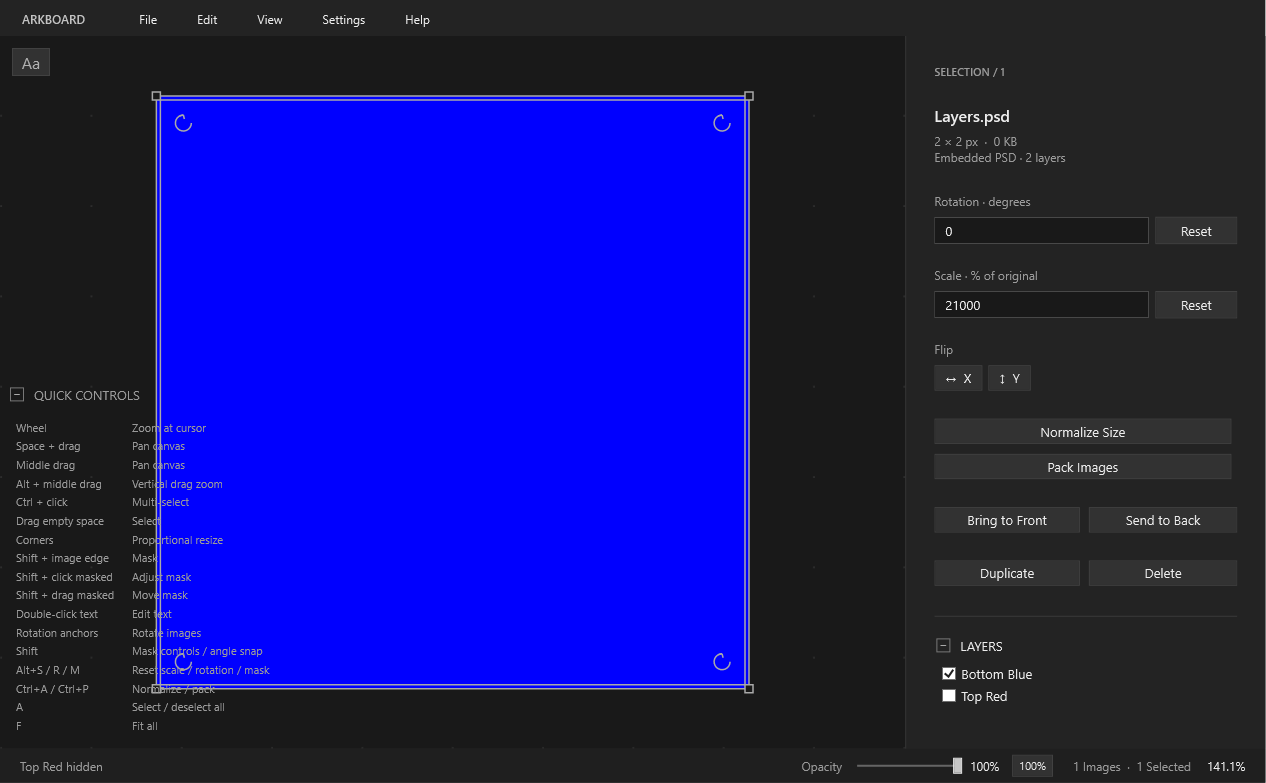
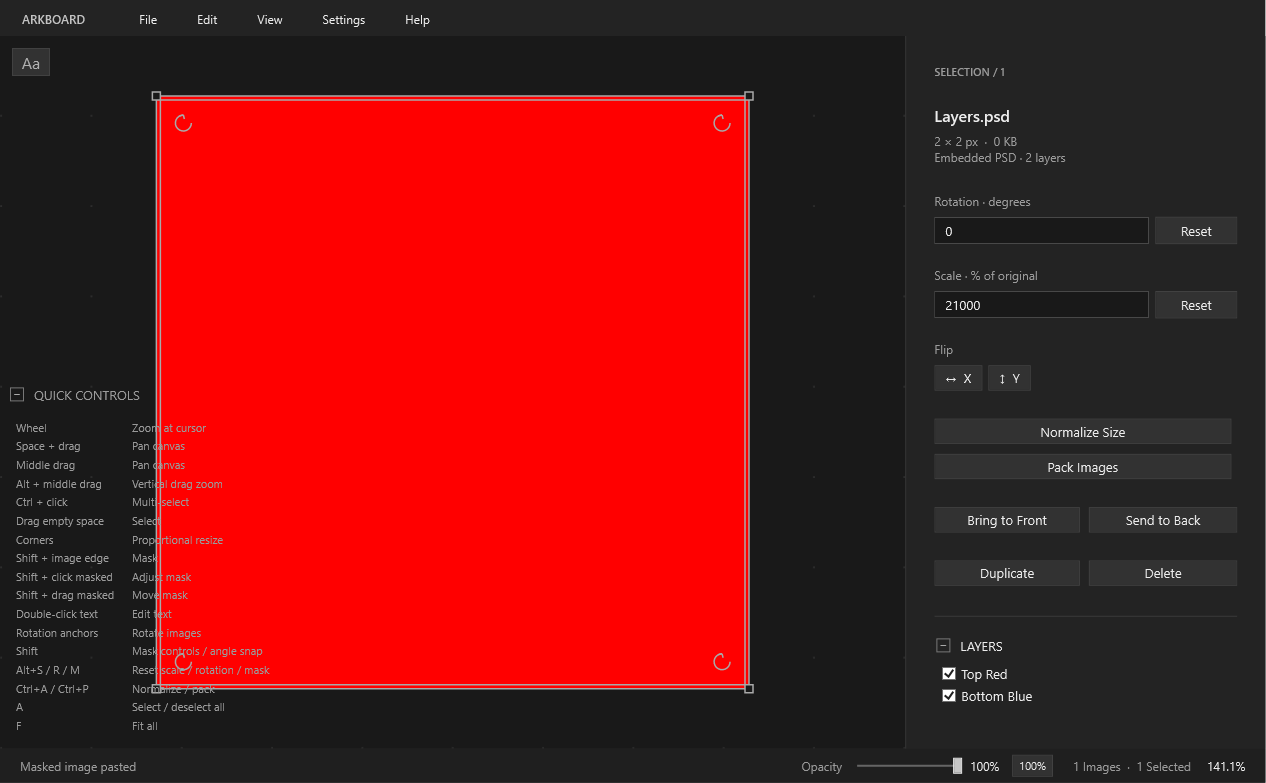
Fix PSD layer compositing order

diff --git a/src/SelfTests.cs b/src/SelfTests.cs
@@ -78,8 +78,9 @@ namespace ArkBoard
                     layerWriter.Write((byte)label.Length); layerWriter.Write(label);
                     for (int p = label.Length + 1; p < paddedName; p++) layerWriter.Write((byte)0);
                 };
-                record("Top Red", top); record("Bottom Blue", bottom);
-                foreach (byte[] channel in top.Concat(bottom)) layerWriter.Write(channel);
+                // PSD layer records are ordered bottom-to-top.
+                record("Bottom Blue", bottom); record("Top Red", top);
+                foreach (byte[] channel in bottom.Concat(top)) layerWriter.Write(channel);
                 byte[] layerInfo = layerInfoStream.ToArray();
                 using (var maskStream = new MemoryStream()) using (var maskWriter = new BinaryWriter(maskStream))
                 {
@@ -134,15 +135,15 @@ namespace ArkBoard
             Check(blue.Bitmap.PixelWidth == 600 && blue.Bitmap.PixelHeight == 400, "PNG decode preserves source dimensions");
             Check(AssetData.Create(blue.Bytes).Key == blue.Key, "Identical images have identical content hashes");
             AssetData psd = AssetData.Create(SamplePsd());
-            Check(psd.IsPsd && psd.Psd.Layers.Count == 2 && psd.Psd.Layers[0].Name == "Top Red" && psd.Psd.Layers[1].Name == "Bottom Blue",
+            Check(psd.IsPsd && psd.Psd.Layers.Count == 2 && psd.Psd.Layers[0].Name == "Bottom Blue" && psd.Psd.Layers[1].Name == "Top Red",
                 "Basic PSD import reads named raster layers with raw and PackBits channel data");
             var psdDoc = new BoardDocument(); ImageItem psdItem = psdDoc.Add(psd, "Layers.psd", new Point(40, 40));
             Check(psdItem.LayerVisibility.SequenceEqual(new[] { true, true }) && Pixel(psd.BitmapFor(psdItem), 0, 0).R > 240,
                 "PSD import initializes Photoshop layer visibility and composites the top layer");
-            psdDoc.Change(() => psdItem.LayerVisibility[0] = false);
+            psdDoc.Change(() => psdItem.LayerVisibility[1] = false);
             Check(Pixel(psd.BitmapFor(psdItem), 0, 0).B > 240, "Turning off a PSD layer reveals the layer below it");
             psdDoc.Undo(); psdItem = psdDoc.Items.Single();
-            Check(psdItem.LayerVisibility[0] && Pixel(psd.BitmapFor(psdItem), 0, 0).R > 240,
+            Check(psdItem.LayerVisibility[1] && Pixel(psd.BitmapFor(psdItem), 0, 0).R > 240,
                 "PSD layer visibility changes can be undone without sharing mutable state");
             psdDoc.Redo(); psdItem = psdDoc.Items.Single();
             string psdProject = Path.Combine(folder, "psd-layers.arkboard"); psdDoc.Save(psdProject);
@@ -150,12 +151,12 @@ namespace ArkBoard
                 Check(((Manifest)new DataContractJsonSerializer(typeof(Manifest)).ReadObject(entry)).Version == 4,
                     "Projects containing PSD layer state use manifest version 4");
             var psdRead = new BoardDocument(); psdRead.Load(psdProject);
-            Check(psdRead.Items.Single().LayerVisibility.SequenceEqual(new[] { false, true }) && psdRead.Assets.Single().Value.IsPsd &&
+            Check(psdRead.Items.Single().LayerVisibility.SequenceEqual(new[] { true, false }) && psdRead.Assets.Single().Value.IsPsd &&
                 Pixel(psdRead.Assets.Single().Value.BitmapFor(psdRead.Items.Single()), 0, 0).B > 240,
                 "ArkBoard projects embed PSD source data and preserve per-item layer visibility");
             ImageItem psdClipboardItem; AssetData psdClipboardAsset;
             DataObject psdClipboard = ArkBoardClipboard.Create(psdRead.Items.Single(), psdRead.Assets.Single().Value);
-            Check(ArkBoardClipboard.TryRead(psdClipboard, out psdClipboardItem, out psdClipboardAsset) && !psdClipboardItem.LayerVisibility[0] &&
+            Check(ArkBoardClipboard.TryRead(psdClipboard, out psdClipboardItem, out psdClipboardAsset) && !psdClipboardItem.LayerVisibility[1] &&
                 Pixel(psdClipboard.GetImage(), 0, 0).B > 240,
                 "ArkBoard and standard bitmap clipboard data preserve the current PSD layer composite");
             var doc = new BoardDocument(); doc.Checkpoint();
@@ -298,6 +299,8 @@ namespace ArkBoard
             Check((string)window.quickControlsExpander.Header == "COMANDI RAPIDI", "Italian UI can be selected at runtime");
             window.SetLanguage(UiLanguage.Japanese);
             Check((string)window.layersExpander.Header == "レイヤー", "Japanese UI can be selected at runtime");
+            Check(window.languageItems.Select(item => (string)item.Header).SequenceEqual(new[] { "English", "Italiano", "日本語" }),
+                "Language choices keep their native labels independently of the active UI language");
             Capture(window, Path.Combine(folder, "ui-japanese.png"));
             window.SetLanguage(UiLanguage.English);
             window.quickControlsExpander.IsExpanded = false;
@@ -489,11 +492,11 @@ namespace ArkBoard
                 "Selecting one PSD exposes its layer visibility list in the inspector");
             Check((string)((CheckBox)window.layersList.Children[0]).Content == psd.Psd.Layers[psd.Psd.Layers.Count - 1].Name,
                 "PSD layers are listed in the same visual order as Photoshop");
-            window.SetPsdLayerVisibility(uiPsd.Id, 0, false);
-            Check(!uiPsd.LayerVisibility[0] && Pixel(psd.BitmapFor(uiPsd), 0, 0).B > 240,
-                "The inspector layer toggle updates the selected PSD instance");
             uiPsd.Width = 420; uiPsd.Height = 420; window.Document.Notify(); window.Board.Fit(false);
             Capture(window, Path.Combine(folder, "ui-psd-layers.png"));
+            window.SetPsdLayerVisibility(uiPsd.Id, 1, false);
+            Check(!uiPsd.LayerVisibility[1] && Pixel(psd.BitmapFor(uiPsd), 0, 0).B > 240,
+                "The inspector layer toggle updates the selected PSD instance");
             uiPsd.Width /= 2; uiPsd.Height /= 2; uiPsd.Rotation = 61; uiPsd.MaskLeft = .2;
             window.ResetSize(); Check(Near(uiPsd.Width, 2) && Near(uiPsd.Height, 2), "Reset scale restores 100 percent dimensions for Alt+S");
             window.ResetRotation(); Check(Near(uiPsd.Rotation, 0), "Reset rotation restores zero degrees for Alt+R");

diff --git a/src/MainWindow.cs b/src/MainWindow.cs
@@ -40,7 +40,7 @@ namespace ArkBoard
         MenuItem flipXContextItem, flipYContextItem, rotateContextItem, resetRotationContextItem;
         MenuItem topmostItem, gridItem;
         MenuItem autoSortingItem, invertDragZoomItem, languageMenu;
-        readonly List<MenuItem> languageItems = new List<MenuItem>();
+        internal readonly List<MenuItem> languageItems = new List<MenuItem>();
         bool busy;
         bool testMode;
         readonly Brush panel = Brush("#232323");
@@ -204,7 +204,7 @@ namespace ArkBoard
         { return new MenuItem { Header = Localization.T(title), Tag = title }; }
         void AddLanguage(MenuItem parent, string title, UiLanguage language)
         {
-            MenuItem item = MenuHeader(title); item.IsCheckable = true; item.IsChecked = Localization.Current == language;
+            MenuItem item = new MenuItem { Header = title, IsCheckable = true, IsChecked = Localization.Current == language };
             item.Click += delegate { SetLanguage(language); };
             languageItems.Add(item); parent.Items.Add(item);
         }
@@ -286,8 +286,8 @@ namespace ArkBoard
             settings.Items.Add(invertDragZoomItem);
             languageMenu = MenuHeader("Language"); settings.Items.Add(languageMenu);
             AddLanguage(languageMenu, "English", UiLanguage.English);
-            AddLanguage(languageMenu, "Italian", UiLanguage.Italian);
-            AddLanguage(languageMenu, "Japanese", UiLanguage.Japanese);
+            AddLanguage(languageMenu, "Italiano", UiLanguage.Italian);
+            AddLanguage(languageMenu, "日本語", UiLanguage.Japanese);
             MenuItem help = MenuHeader("_Help"); menu.Items.Add(help);
             help.Items.Add(MenuAction("About ArkBoard", "", Help));
             Root.Children.Add(bar);
@@ -799,11 +799,11 @@ namespace ArkBoard
         {
             string message;
             if (Localization.Current == UiLanguage.Italian)
-                message = "ArkBoard 1.9.0\nCanvas portatile per immagini di riferimento.\n\nFILE COMPATIBILI\nProgetti: .arkboard, .refcanvas, .zip\nImmagini: PNG, JPEG, BMP, TIFF, ICO, primo fotogramma GIF e WebP con codec Windows installato.\nPSD: livelli raster RGB a 8 bit con dati raw o RLE.\n\nPIATTAFORME\nWindows 10/11 x64 · .NET Framework 4.8\n\nLICENZA\nMIT Open Source\n\nCODICE SORGENTE E VERSIONI\nhttps://github.com/MaxPuliero/ArkBoard";
+                message = "ArkBoard 1.9.1\nCanvas portatile per immagini di riferimento.\n\nFILE COMPATIBILI\nProgetti: .arkboard, .refcanvas, .zip\nImmagini: PNG, JPEG, BMP, TIFF, ICO, primo fotogramma GIF e WebP con codec Windows installato.\nPSD: livelli raster RGB a 8 bit con dati raw o RLE.\n\nPIATTAFORME\nWindows 10/11 x64 · .NET Framework 4.8\n\nLICENZA\nMIT Open Source\n\nCODICE SORGENTE E VERSIONI\nhttps://github.com/MaxPuliero/ArkBoard";
             else if (Localization.Current == UiLanguage.Japanese)
-                message = "ArkBoard 1.9.0\nポータブルなリファレンス画像キャンバス。\n\n対応ファイル\nプロジェクト: .arkboard, .refcanvas, .zip\n画像: PNG, JPEG, BMP, TIFF, ICO, GIFの先頭フレーム、Windowsコーデック利用時のWebP。\nPSD: 8ビットRGBのraw/RLEラスターレイヤー。\n\n対応OS\nWindows 10/11 x64 · .NET Framework 4.8\n\nライセンス\nMITオープンソース\n\nソースとリリース\nhttps://github.com/MaxPuliero/ArkBoard";
+                message = "ArkBoard 1.9.1\nポータブルなリファレンス画像キャンバス。\n\n対応ファイル\nプロジェクト: .arkboard, .refcanvas, .zip\n画像: PNG, JPEG, BMP, TIFF, ICO, GIFの先頭フレーム、Windowsコーデック利用時のWebP。\nPSD: 8ビットRGBのraw/RLEラスターレイヤー。\n\n対応OS\nWindows 10/11 x64 · .NET Framework 4.8\n\nライセンス\nMITオープンソース\n\nソースとリリース\nhttps://github.com/MaxPuliero/ArkBoard";
             else
-                message = "ArkBoard 1.9.0\nPortable reference-image canvas.\n\nCOMPATIBLE FILES\nProjects: .arkboard, .refcanvas, .zip\nImages: PNG, JPEG, BMP, TIFF, ICO, first GIF frame, and WebP when a Windows codec is installed.\nPSD: 8-bit RGB raw/RLE raster layers.\n\nPLATFORMS\nWindows 10/11 x64 · .NET Framework 4.8\n\nLICENSE\nMIT Open Source\n\nSOURCE AND RELEASES\nhttps://github.com/MaxPuliero/ArkBoard";
+                message = "ArkBoard 1.9.1\nPortable reference-image canvas.\n\nCOMPATIBLE FILES\nProjects: .arkboard, .refcanvas, .zip\nImages: PNG, JPEG, BMP, TIFF, ICO, first GIF frame, and WebP when a Windows codec is installed.\nPSD: 8-bit RGB raw/RLE raster layers.\n\nPLATFORMS\nWindows 10/11 x64 · .NET Framework 4.8\n\nLICENSE\nMIT Open Source\n\nSOURCE AND RELEASES\nhttps://github.com/MaxPuliero/ArkBoard";
             DarkDialog.ShowAbout(this, message);
         }
     }

diff --git a/src/PsdSupport.cs b/src/PsdSupport.cs
@@ -95,7 +95,9 @@ namespace ArkBoard
             using (DrawingContext dc = visual.RenderOpen())
             {
                 dc.DrawRectangle(Brushes.Transparent, null, new Rect(0, 0, Width, Height));
-                for (int index = Layers.Count - 1; index >= 0; index--)
+                // PSD layer records are stored from the bottom of the stack to the top.
+                // Draw in that order so every later (higher) layer composites over it.
+                for (int index = 0; index < Layers.Count; index++)
                 {
                     PsdLayer layer = Layers[index];
                     bool visible = visibility == null || visibility.Count != Layers.Count ? layer.DefaultVisible : visibility[index];

diff --git a/src/AssemblyInfo.cs b/src/AssemblyInfo.cs
@@ -2,6 +2,6 @@ using System.Reflection;
 [assembly: AssemblyTitle("ArkBoard")]
 [assembly: AssemblyDescription("Portable reference canvas for Windows")]
 [assembly: AssemblyProduct("ArkBoard")]
-[assembly: AssemblyVersion("1.9.0.0")]
-[assembly: AssemblyFileVersion("1.9.0.0")]
+[assembly: AssemblyVersion("1.9.1.0")]
+[assembly: AssemblyFileVersion("1.9.1.0")]
 

diff --git a/README.md b/README.md
@@ -1,10 +1,15 @@
-# ArkBoard 1.9.0
+# ArkBoard 1.9.1
 
 A portable reference-image canvas for Windows. Projects contain all their image assets.
 
 ![ArkBoard canvas](docs/arkboard-canvas.png)
 
 ArkBoard is open-source software released under the [MIT License](LICENSE). Prebuilt portable versions are available from the repository's Releases page.
+
+## PSD compositing fix in 1.9.1
+
+- PSD raster layers now render in the same stacking order shown by Photoshop and the ArkBoard sidebar. A higher layer such as `retouch` correctly appears over a lower background layer while both remain enabled.
+- The language choices are always labeled **English / Italiano / 日本語**, independently of the active interface language.
 
 ## Interface and navigation in 1.9.0
 
@@ -159,12 +164,11 @@ Saving writes a temporary file beside the destination and replaces the project a
 Source is in `src`. `build.ps1` uses the installed .NET Framework compiler without downloading packages:
 
 ```powershell
-.\build.ps1 -OutputDirectory dist-arkboard-1.9.0
-Start-Process .\dist-arkboard-1.9.0\ArkBoard.exe -ArgumentList '--self-test','test-output-arkboard-1.9.0' -WindowStyle Hidden -Wait
+.\build.ps1 -OutputDirectory dist-arkboard-1.9.1
+Start-Process .\dist-arkboard-1.9.1\ArkBoard.exe -ArgumentList '--self-test','test-output-arkboard-1.9.1' -WindowStyle Hidden -Wait
 ```
 
-Tests write `results.txt`, screenshots and synthetic sample projects under `test-output-arkboard-1.9.0`; failures produce `FAILED.txt`. They cover persistence, embedded assets, PSD raw/RLE layer decoding and visibility, localized UI, drag-zoom direction, compact sidebar layout, Quick Controls expansion, masking and mask movement, selection and rotation controls, ArkBoard clipboard data, reset commands, auto-sorting, text creation and editing, undo/redo, invalid files, import parsing, viewport math, panel visibility, native opacity, normalization and packing. They do not modify user projects.
+Tests write `results.txt`, screenshots and synthetic sample projects under `test-output-arkboard-1.9.1`; failures produce `FAILED.txt`. They cover persistence, embedded assets, PSD raw/RLE layer decoding and visibility, localized UI, drag-zoom direction, compact sidebar layout, Quick Controls expansion, masking and mask movement, selection and rotation controls, ArkBoard clipboard data, reset commands, auto-sorting, text creation and editing, undo/redo, invalid files, import parsing, viewport math, panel visibility, native opacity, normalization and packing. They do not modify user projects.
 
 
 For a repeatable rendering benchmark, run the executable with `--benchmark benchmark-output`. The report uses 24 synthetic images at 1280, 1920 and 2560 pixel window widths. It measures off-screen software snapshots, **not desktop frame rate**. Actual performance also depends on image content, display resolution, GPU drivers and opacity.
-
